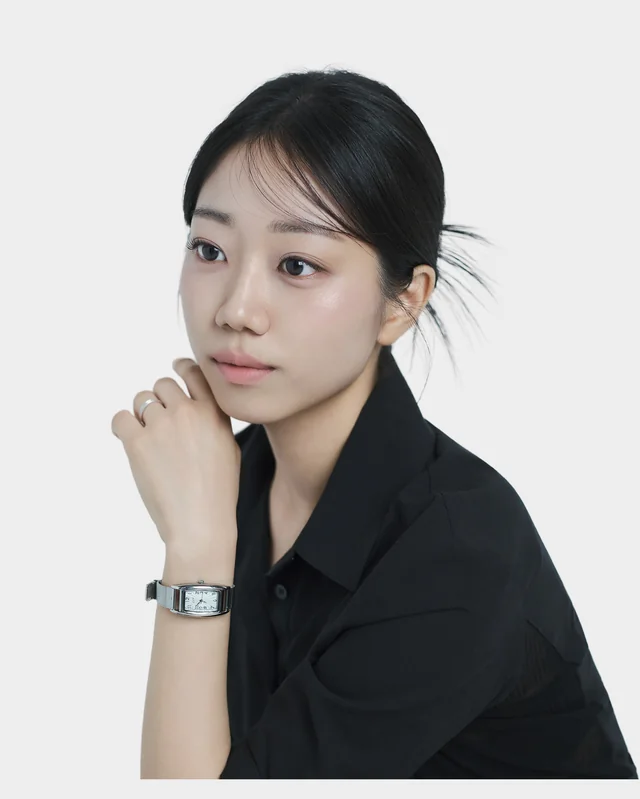
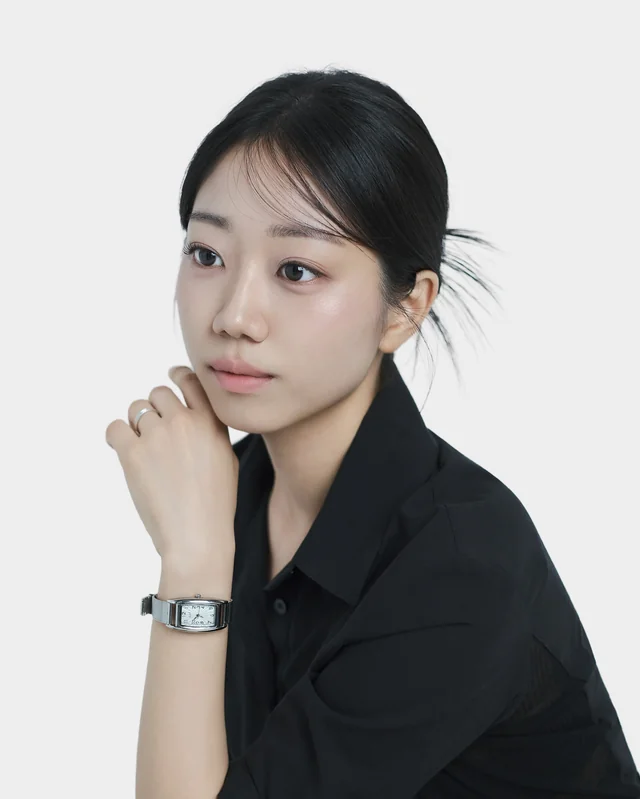
2026: 이수민 photo no longer cut at the bottom — when a head sits low in the original, crop slightly narrower (2.8% zoom) instead of padding gray

diff --git a/scripts/profile-photos.py b/scripts/profile-photos.py
@@ -45,10 +45,18 @@ def head_top(im: Image.Image) -> int:
 def frame(im: Image.Image, top: int) -> Image.Image:
     """칸 비율 창: 가로는 원본 폭 그대로(가운데), 머리 꼭대기가 창 높이의 HEAD_TOP_RATIO에 오게.
     원본 위쪽이 모자라면 원본 맨 윗줄 색(배경 회색)으로 채워 내림 — Figma 시안도 사진을 살짝 내려 배치함.
-    아래가 모자라면(원본이 칸보다 납작) 같은 식으로 아래를 채움."""
+    머리가 낮게 찍혀 아래가 모자라면, 창을 살짝 좁혀(확대) 아래 끝을 원본 아래 끝에 맞춤."""
     w, h = im.size
     ch = round(w * CELL_RATIO)
     y = round(top - HEAD_TOP_RATIO * ch)
+    if y > 0 and y + ch > h:
+        # 머리가 원본에서 낮게 찍혀 위로 올리면 아래가 모자람 → 회색으로 채우지 않고, 창을 가운데 기준으로 살짝 좁혀(확대)
+        # 아래 끝이 원본 아래 끝에 딱 맞게 (2026-10-24 이수민 새 사진: 아래 20px가 회색으로 비던 문제)
+        ch = round((h - top) / (1 - HEAD_TOP_RATIO))
+        cw = round(ch / CELL_RATIO)
+        x0 = (w - cw) // 2
+        y = h - ch
+        return im.crop((x0, y, x0 + cw, h))
     canvas = Image.new("RGB", (w, ch), im.getpixel((w // 2, 0)))
     canvas.paste(im.crop((0, max(0, y), w, min(h, y + ch))), (0, max(0, -y)))
     return canvas
